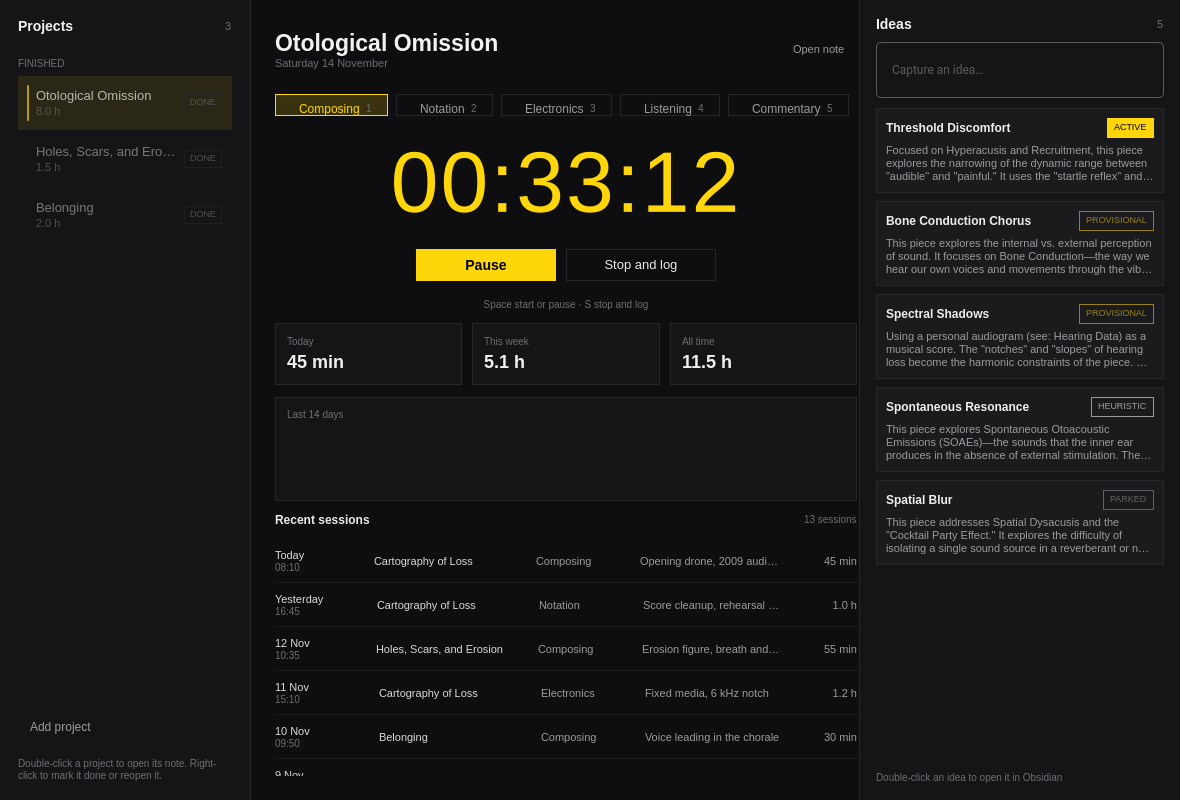
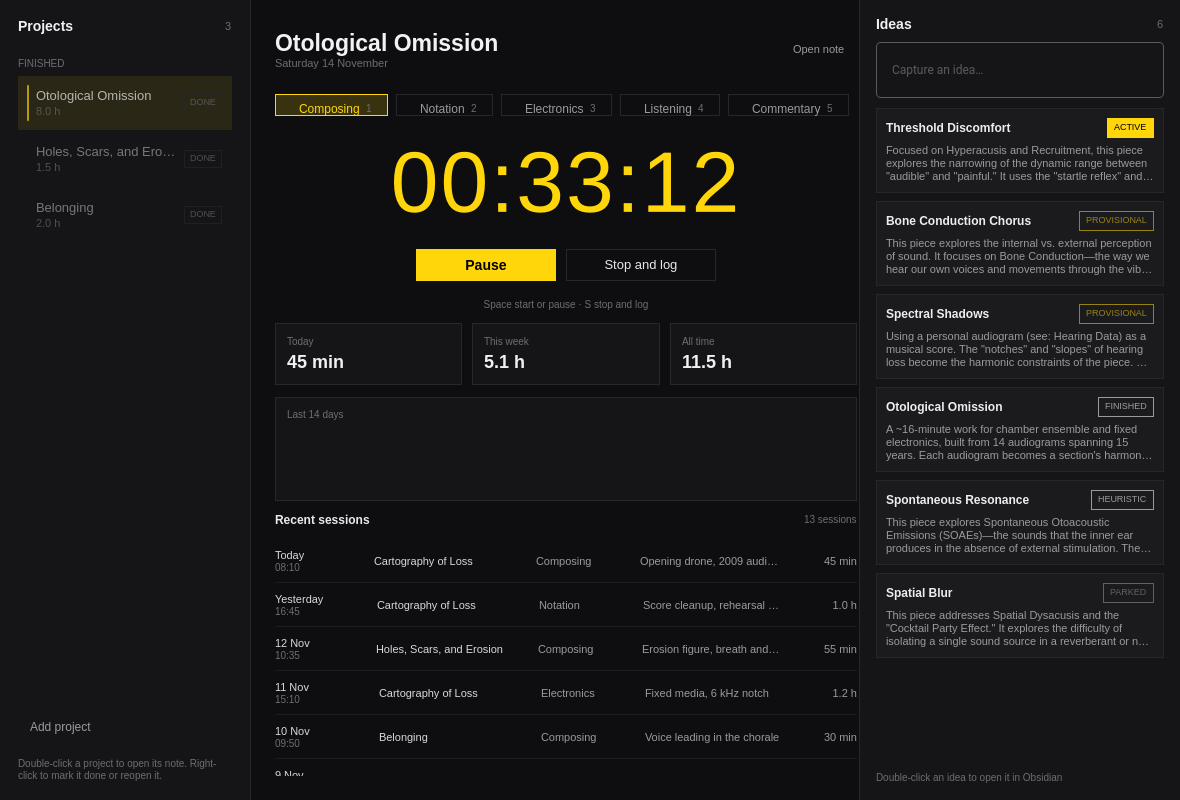
Recognise finished idea notes

Changed region(s): [[0.7322, 0.5, 0.9763, 0.6875], [0.7322, 0.7188, 0.9458, 0.8125], [0.9458, 0.7188, 0.9763, 0.75]]

diff --git a/src/vault.cpp b/src/vault.cpp
@@ -155,7 +155,7 @@ QString Vault::sessionsPath() const { return m_root + "/Dashboards/Composition L
 QString Vault::triagePath() const { return m_root + "/Dashboards/Idea Triage.md"; }
 QString Vault::ideasPath() const { return m_root + "/Composition Ideas"; }
 
-QStringList Vault::stages() { return {"heuristic", "provisional", "active", "parked"}; }
+QStringList Vault::stages() { return {"heuristic", "provisional", "active", "finished", "parked"}; }
 
 bool Vault::isStage(const QString &stage) { return stages().contains(stage); }
 
@@ -272,7 +272,7 @@ QList<Idea> Vault::ideas() const
             idea.title = headingMatch.captured(1).trimmed();
 
         idea.stage = "heuristic";
-        static const QRegularExpression status(R"(status/(heuristic|provisional|active|parked))");
+        static const QRegularExpression status(R"(status/(heuristic|provisional|active|finished|parked))");
         const auto statusMatch = status.match(frontmatter(contents));
         if (statusMatch.hasMatch())
             idea.stage = statusMatch.captured(1);
@@ -284,7 +284,7 @@ QList<Idea> Vault::ideas() const
     // A stage change is recorded in the triage note rather than by rewriting
     // the idea note, so the newest line for a note wins.
     static const QRegularExpression event(
-        R"(^-\s*(\d{4}-\d{2}-\d{2})\s*·\s*\[\[([^\]|]+)(?:\|[^\]]*)?\]\]\s*·\s*(heuristic|provisional|active|parked)\s*$)",
+        R"(^-\s*(\d{4}-\d{2}-\d{2})\s*·\s*\[\[([^\]|]+)(?:\|[^\]]*)?\]\]\s*·\s*(heuristic|provisional|active|finished|parked)\s*$)",
         QRegularExpression::MultilineOption);
     QHash<QString, QString> latest;
     auto it = event.globalMatch(QString::fromUtf8(readAll(triagePath())));

diff --git a/tests/cadence_tests.cpp b/tests/cadence_tests.cpp
@@ -106,6 +106,26 @@ private slots:
         QCOMPARE(vault.ideas().first().stage, QString("parked"));
     }
 
+    void finishedStageIsReadFromTagsAndTriage()
+    {
+        QTemporaryDir dir;
+        Vault vault(dir.path());
+        QDir(dir.path()).mkpath("Composition Ideas");
+        write(dir.path() + "/Composition Ideas/Otological Omission.md",
+              "---\ntags:\n  - status/finished\n---\n# Otological Omission\n\nA finished piece.\n");
+        write(dir.path() + "/Composition Ideas/Threshold Discomfort.md",
+              "---\ntags: [status/provisional]\n---\n# Threshold Discomfort\n\nAn idea.\n");
+        write(dir.path() + "/Dashboards/Idea Triage.md",
+              "- 2026-11-14 · [[Threshold Discomfort]] · finished\n");
+
+        QVERIFY(Vault::isStage("finished"));
+
+        const auto ideas = vault.ideas();
+        QCOMPARE(ideas.size(), 2);
+        for (const auto &idea : ideas)
+            QCOMPARE(idea.stage, QString("finished"));
+    }
+
     void addIdeaCreatesANoteAndRefusesDuplicates()
     {
         QTemporaryDir dir;
@@ -388,6 +408,17 @@ private slots:
                 found = map.value("stage").toString() == "provisional";
         }
         QVERIFY(found);
+
+        // The cycle continues past active into finished.
+        backend.cycleIdeaStage(0);
+        backend.cycleIdeaStage(0);
+        QString stage;
+        for (const auto &value : backend.ideas()) {
+            const auto map = value.toMap();
+            if (map.value("title").toString() == "Spatial Blur")
+                stage = map.value("stage").toString();
+        }
+        QCOMPARE(stage, QString("finished"));
     }
 
     void themeFallsBack()

diff --git a/src/cli.cpp b/src/cli.cpp
@@ -37,7 +37,7 @@ Obsidian vault. It is append-only: sessions go into
 
 - `cadence sessions --days 14 --json` — recent logged sessions.
 - `cadence projects --json` — projects and their total minutes; `done` marks finished pieces, and `aliases` are earlier names that still count toward a project.
-- `cadence ideas --json` — idea notes with stage (heuristic, provisional, active, parked).
+- `cadence ideas --json` — idea notes with stage (heuristic, provisional, active, finished, parked).
 - `cadence log --minutes 25 --project "Cartography of Loss" --mode notation --note "Re-voiced bars 12-18"` — record a finished session.
 - `cadence open` — the window.
 

diff --git a/README.md b/README.md
@@ -12,7 +12,8 @@ existing notes.
   you did, then appends a row to `Dashboards/Composition Log.md`.
 - **Ideas.** The idea notes already in `Composition Ideas/` sit in one column
   with their stage. Type a new idea and cadence creates the note; click a stage
-  chip to move it along. Stage changes append to `Dashboards/Idea Triage.md`.
+  chip to move it along, up to `status/finished`. Stage changes append to
+  `Dashboards/Idea Triage.md`.
 - **Finished pieces.** Right-click a project to mark it done or reopen it.
   Finished projects drop below the active list, dimmed and still openable, so
   their time stays in the totals without crowding the timer.
